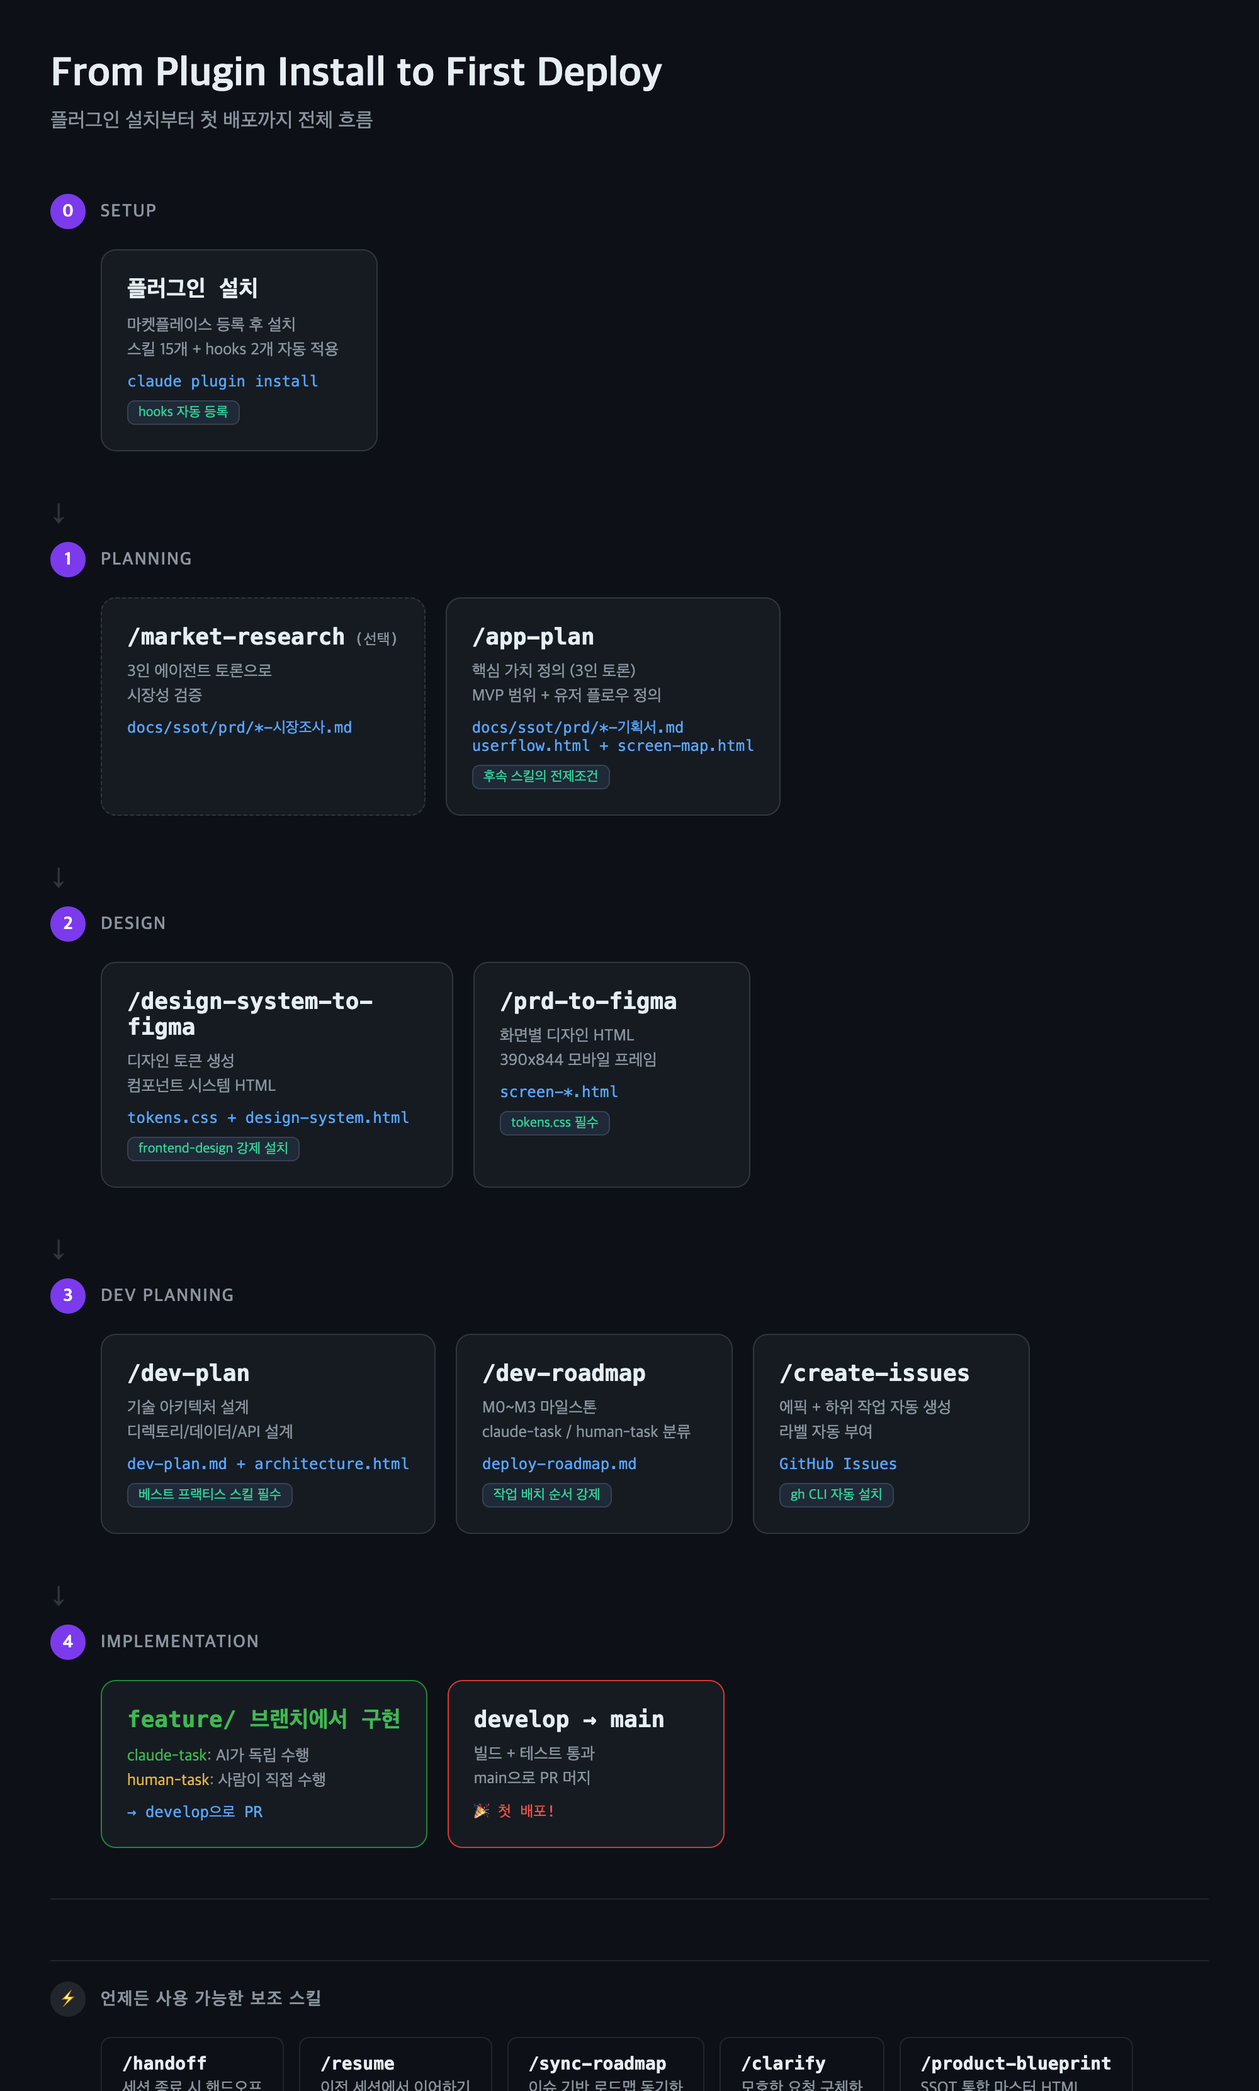
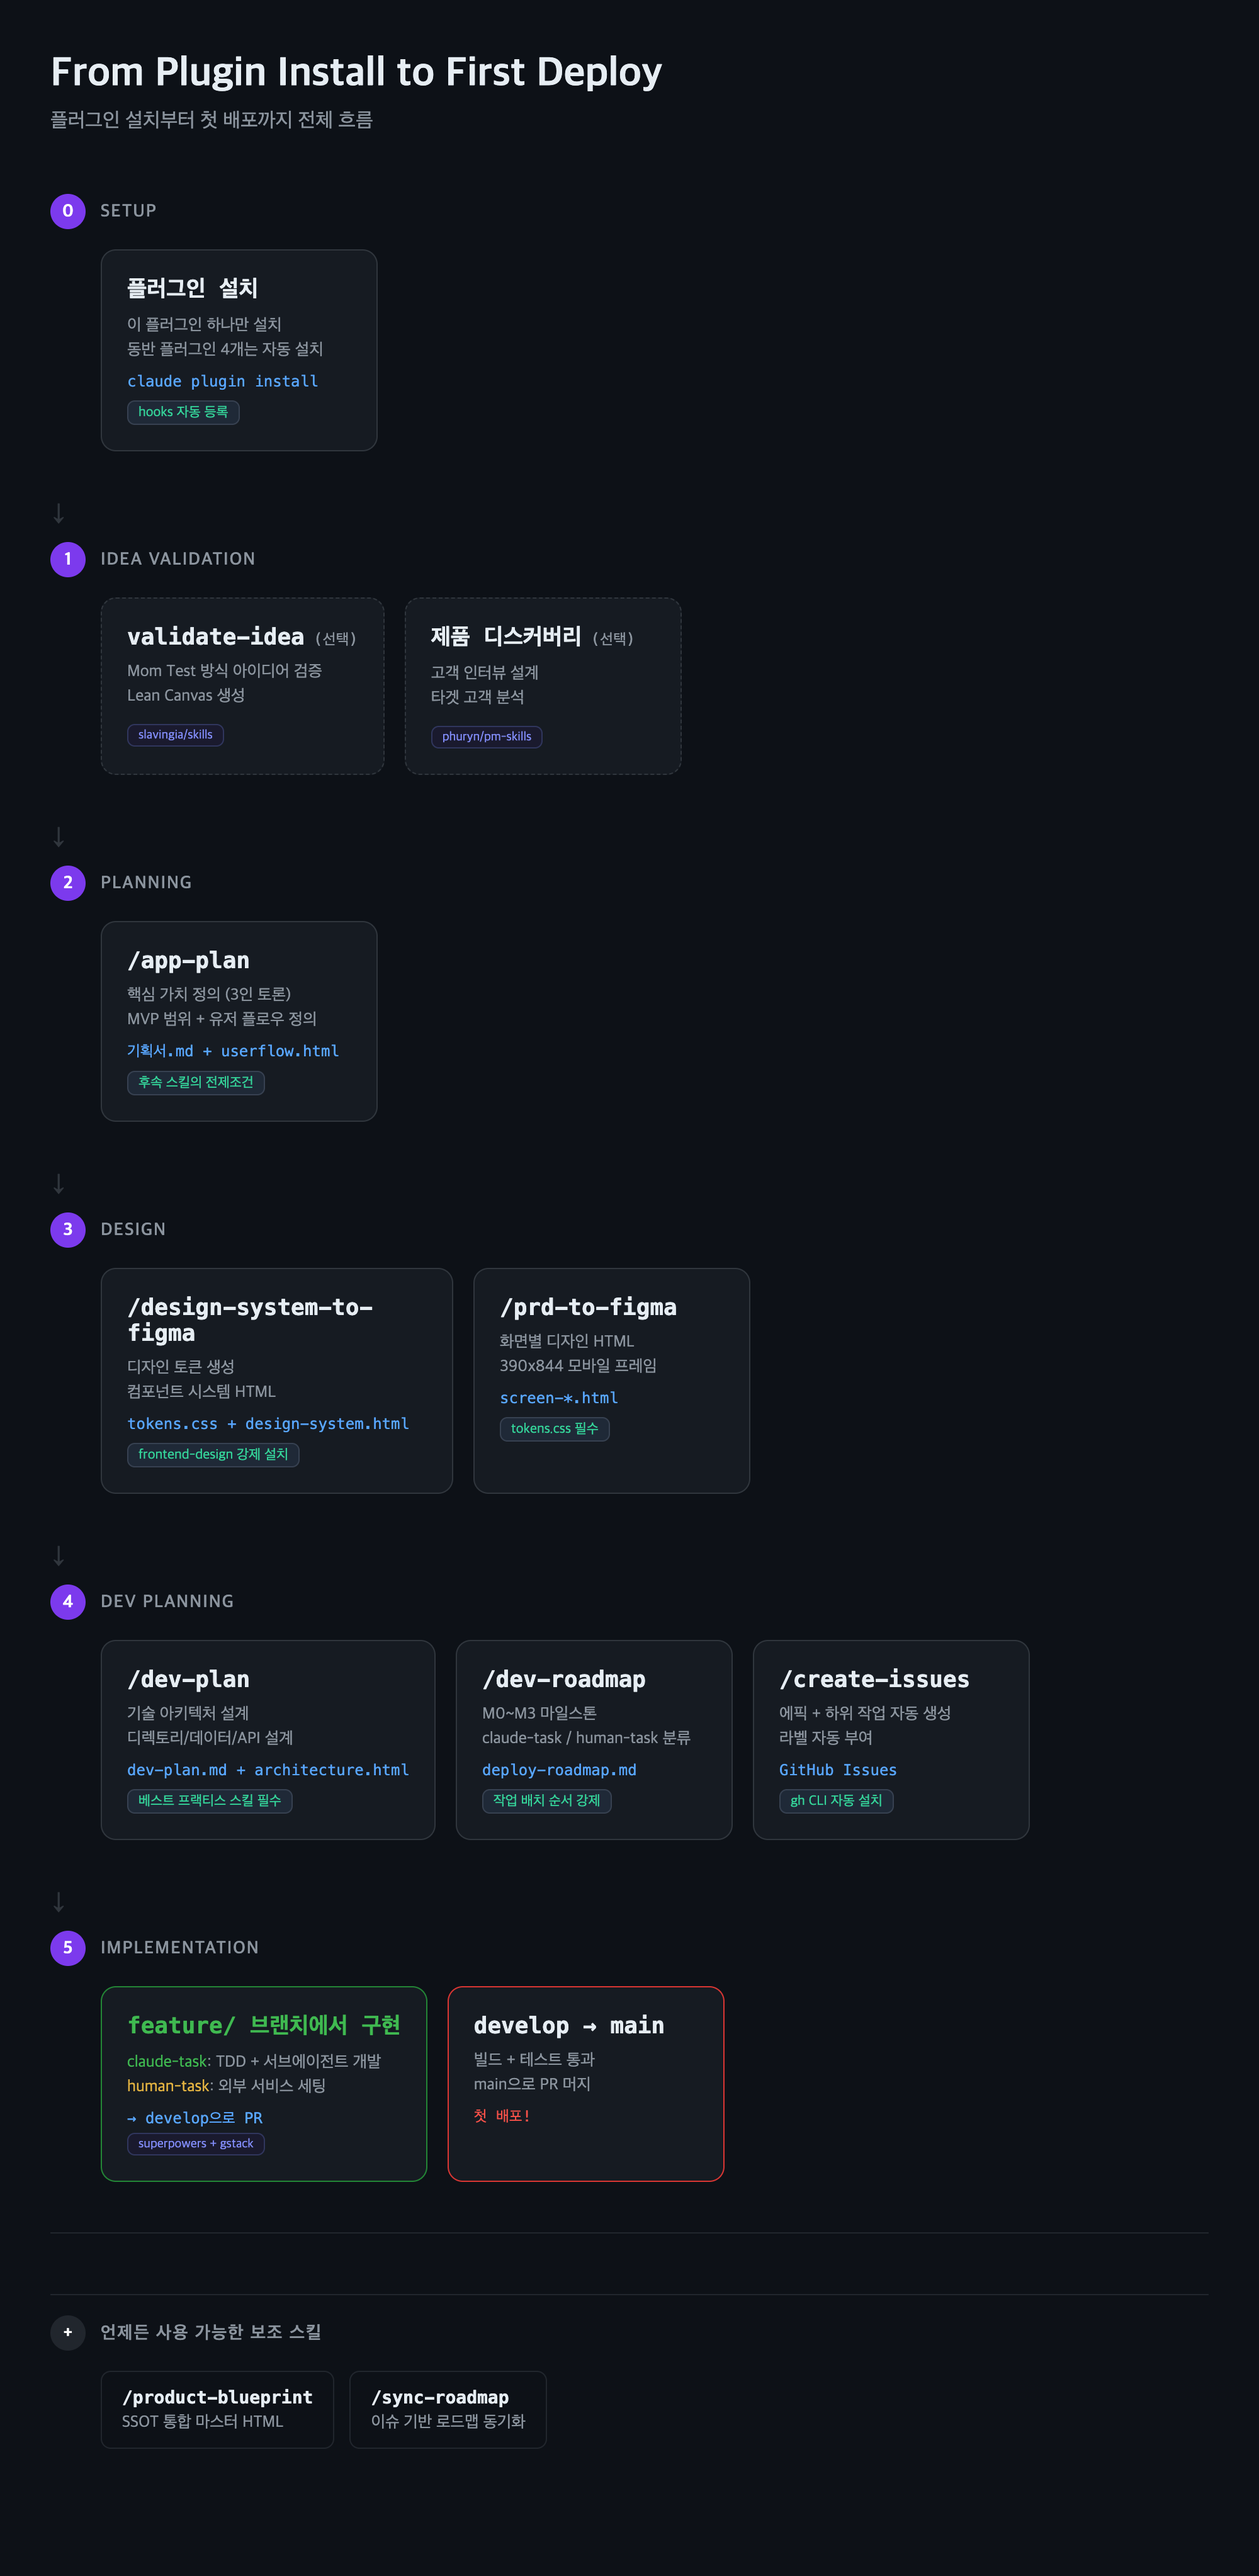
Fix: 다이어그램 하단 잘림 수정 + 삭제된 스킬 제거
- 삭제된 스킬(market-research, handoff, resume, clarify) 다이어그램에서 제거
- 외부 플러그인 스킬에 출처 배지 추가 (slavingia/skills, phuryn/pm-skills 등)
- body padding-bottom 추가로 하단 잘림 방지
- 보조 스킬을 현재 남은 2개만 표시

diff --git a/docs/diagrams/full-flow.html b/docs/diagrams/full-flow.html
@@ -6,12 +6,12 @@
 <title>플러그인 설치부터 첫 배포까지</title>
 <style>
   * { margin: 0; padding: 0; box-sizing: border-box; }
-  body { background: #0d1117; color: #e6edf3; font-family: -apple-system, 'Pretendard', sans-serif; padding: 40px; min-width: 900px; }
+  body { background: #0d1117; color: #e6edf3; font-family: -apple-system, 'Pretendard', sans-serif; padding: 40px 40px 80px 40px; min-width: 900px; }
   h1 { font-size: 32px; font-weight: 700; margin-bottom: 8px; }
   .subtitle { color: #8b949e; font-size: 16px; margin-bottom: 48px; }
   .phase { margin-bottom: 40px; }
   .phase-header { display: flex; align-items: center; gap: 12px; margin-bottom: 16px; }
-  .phase-num { background: #7c3aed; color: white; width: 28px; height: 28px; border-radius: 50%; display: flex; align-items: center; justify-content: center; font-size: 14px; font-weight: 700; }
+  .phase-num { background: #7c3aed; color: white; width: 28px; height: 28px; border-radius: 50%; display: flex; align-items: center; justify-content: center; font-size: 14px; font-weight: 700; flex-shrink: 0; }
   .phase-title { font-size: 14px; font-weight: 600; color: #8b949e; text-transform: uppercase; letter-spacing: 1px; }
   .cards { display: flex; gap: 16px; flex-wrap: wrap; margin-left: 40px; }
   .card { background: #161b22; border: 1px solid #30363d; border-radius: 12px; padding: 20px; min-width: 220px; max-width: 280px; }
@@ -22,8 +22,9 @@
   .card.optional .card-title::after { content: ' (선택)'; font-size: 12px; color: #8b949e; font-weight: 400; }
   .arrow { margin-left: 52px; color: #30363d; font-size: 24px; line-height: 1; margin: 8px 0; }
   .enforce-badge { display: inline-block; background: #1f2937; border: 1px solid #374151; border-radius: 6px; padding: 2px 8px; font-size: 11px; color: #34d399; margin-top: 8px; }
+  .source-badge { display: inline-block; background: #1a1a2e; border: 1px solid #30365d; border-radius: 6px; padding: 2px 8px; font-size: 10px; color: #818cf8; margin-top: 4px; }
   .section-divider { border: none; border-top: 1px solid #21262d; margin: 32px 0; }
-  .footer { margin-top: 48px; padding-top: 16px; border-top: 1px solid #21262d; }
+  .footer { margin-top: 48px; padding-top: 16px; border-top: 1px solid #21262d; padding-bottom: 40px; }
   .footer-cards { display: flex; gap: 12px; flex-wrap: wrap; margin-left: 40px; }
   .footer-card { background: #0d1117; border: 1px solid #21262d; border-radius: 8px; padding: 12px 16px; font-size: 13px; }
   .footer-card strong { display: block; font-size: 14px; margin-bottom: 4px; font-family: 'SF Mono', monospace; }
@@ -35,6 +36,7 @@
 <h1>From Plugin Install to First Deploy</h1>
 <p class="subtitle">플러그인 설치부터 첫 배포까지 전체 흐름</p>
 
+<!-- Step 0: Setup -->
 <div class="phase">
   <div class="phase-header">
     <div class="phase-num">0</div>
@@ -43,7 +45,7 @@
   <div class="cards">
     <div class="card">
       <div class="card-title">플러그인 설치</div>
-      <div class="card-desc">마켓플레이스 등록 후 설치<br>스킬 15개 + hooks 2개 자동 적용</div>
+      <div class="card-desc">이 플러그인 하나만 설치<br>동반 플러그인 4개는 자동 설치</div>
       <div class="card-output">claude plugin install</div>
       <div class="enforce-badge">hooks 자동 등록</div>
     </div>
@@ -52,21 +54,39 @@
 
 <div class="arrow">↓</div>
 
+<!-- Step 1: Idea Validation -->
 <div class="phase">
   <div class="phase-header">
     <div class="phase-num">1</div>
-    <div class="phase-title">Planning</div>
+    <div class="phase-title">Idea Validation</div>
   </div>
   <div class="cards">
     <div class="card optional">
-      <div class="card-title">/market-research</div>
-      <div class="card-desc">3인 에이전트 토론으로<br>시장성 검증</div>
-      <div class="card-output">docs/ssot/prd/*-시장조사.md</div>
+      <div class="card-title">validate-idea</div>
+      <div class="card-desc">Mom Test 방식 아이디어 검증<br>Lean Canvas 생성</div>
+      <div class="source-badge">slavingia/skills</div>
     </div>
+    <div class="card optional">
+      <div class="card-title">제품 디스커버리</div>
+      <div class="card-desc">고객 인터뷰 설계<br>타겟 고객 분석</div>
+      <div class="source-badge">phuryn/pm-skills</div>
+    </div>
+  </div>
+</div>
+
+<div class="arrow">↓</div>
+
+<!-- Step 2: Planning -->
+<div class="phase">
+  <div class="phase-header">
+    <div class="phase-num">2</div>
+    <div class="phase-title">Planning</div>
+  </div>
+  <div class="cards">
     <div class="card">
       <div class="card-title">/app-plan</div>
       <div class="card-desc">핵심 가치 정의 (3인 토론)<br>MVP 범위 + 유저 플로우 정의</div>
-      <div class="card-output">docs/ssot/prd/*-기획서.md<br>userflow.html + screen-map.html</div>
+      <div class="card-output">기획서.md + userflow.html</div>
       <div class="enforce-badge">후속 스킬의 전제조건</div>
     </div>
   </div>
@@ -74,9 +94,10 @@
 
 <div class="arrow">↓</div>
 
+<!-- Step 3: Design -->
 <div class="phase">
   <div class="phase-header">
-    <div class="phase-num">2</div>
+    <div class="phase-num">3</div>
     <div class="phase-title">Design</div>
   </div>
   <div class="cards">
@@ -97,9 +118,10 @@
 
 <div class="arrow">↓</div>
 
+<!-- Step 4: Dev Planning -->
 <div class="phase">
   <div class="phase-header">
-    <div class="phase-num">3</div>
+    <div class="phase-num">4</div>
     <div class="phase-title">Dev Planning</div>
   </div>
   <div class="cards">
@@ -126,38 +148,38 @@
 
 <div class="arrow">↓</div>
 
+<!-- Step 5: Implementation -->
 <div class="phase">
   <div class="phase-header">
-    <div class="phase-num">4</div>
+    <div class="phase-num">5</div>
     <div class="phase-title">Implementation</div>
   </div>
   <div class="cards">
     <div class="card" style="border-color: #238636;">
       <div class="card-title" style="color: #3fb950;">feature/ 브랜치에서 구현</div>
-      <div class="card-desc"><span style="color: #3fb950;">claude-task</span>: AI가 독립 수행<br><span style="color: #e3b341;">human-task</span>: 사람이 직접 수행</div>
+      <div class="card-desc"><span style="color: #3fb950;">claude-task</span>: TDD + 서브에이전트 개발<br><span style="color: #e3b341;">human-task</span>: 외부 서비스 세팅</div>
       <div class="card-output">→ develop으로 PR</div>
+      <div class="source-badge">superpowers + gstack</div>
     </div>
     <div class="card" style="border-color: #da3633;">
       <div class="card-title">develop → main</div>
       <div class="card-desc">빌드 + 테스트 통과<br>main으로 PR 머지</div>
-      <div class="card-output" style="color: #f85149;">🎉 첫 배포!</div>
+      <div class="card-output" style="color: #f85149;">첫 배포!</div>
     </div>
   </div>
 </div>
 
 <hr class="section-divider">
 
+<!-- Footer: 보조 스킬 -->
 <div class="footer">
   <div class="phase-header">
-    <div class="phase-num" style="background: #21262d;">⚡</div>
+    <div class="phase-num" style="background: #21262d;">+</div>
     <div class="phase-title">언제든 사용 가능한 보조 스킬</div>
   </div>
   <div class="footer-cards">
-    <div class="footer-card"><strong>/handoff</strong><span>세션 종료 시 핸드오프</span></div>
-    <div class="footer-card"><strong>/resume</strong><span>이전 세션에서 이어하기</span></div>
-    <div class="footer-card"><strong>/sync-roadmap</strong><span>이슈 기반 로드맵 동기화</span></div>
-    <div class="footer-card"><strong>/clarify</strong><span>모호한 요청 구체화</span></div>
     <div class="footer-card"><strong>/product-blueprint</strong><span>SSOT 통합 마스터 HTML</span></div>
+    <div class="footer-card"><strong>/sync-roadmap</strong><span>이슈 기반 로드맵 동기화</span></div>
   </div>
 </div>
 
